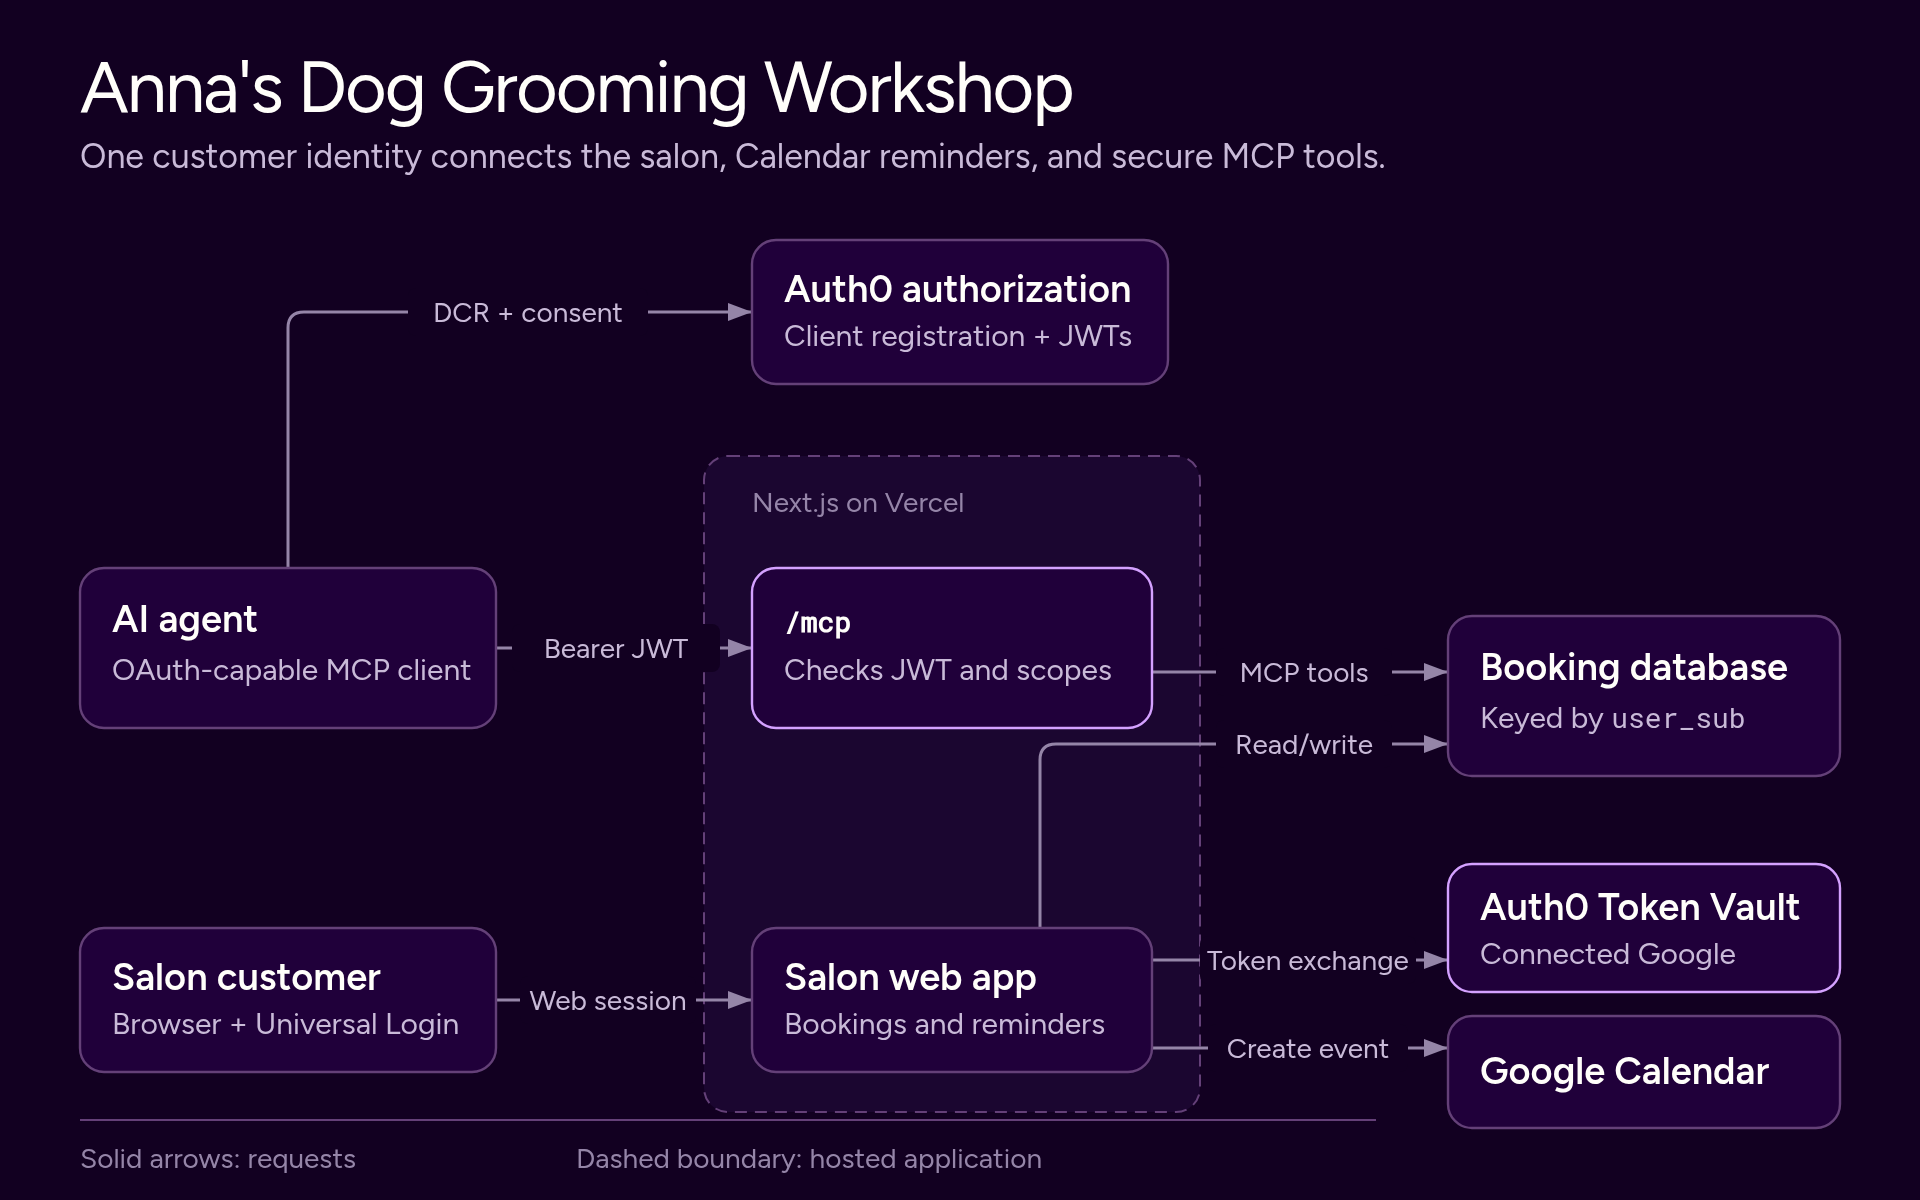
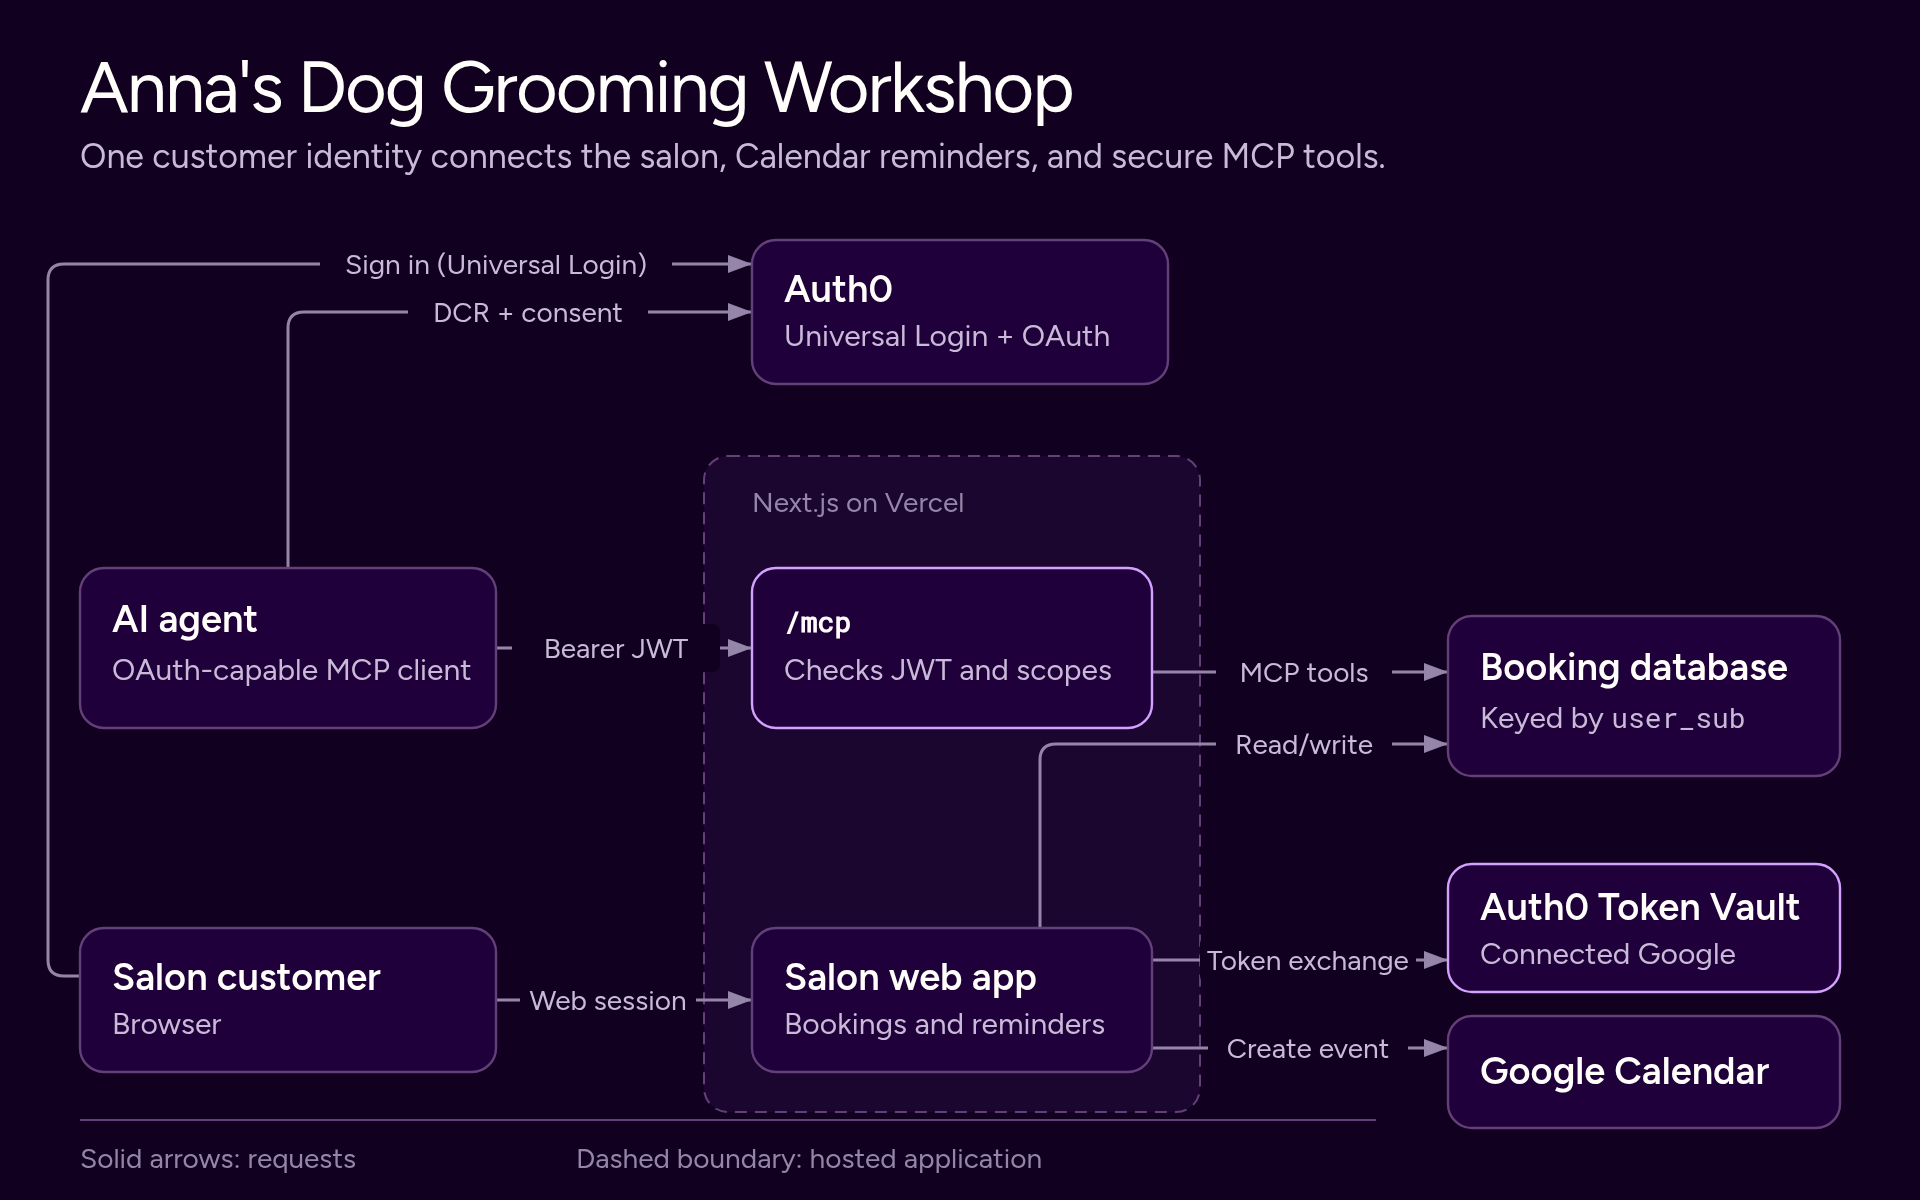
Show the salon customer's Auth0 sign-in path

diff --git a/docs/architecture.html b/docs/architecture.html
@@ -43,7 +43,7 @@
     <div class="diagram-container">
       <svg xmlns="http://www.w3.org/2000/svg" viewBox="0 0 960 600" role="img" aria-labelledby="architecture-title architecture-desc">
         <title id="architecture-title">Anna's Dog Grooming Workshop</title>
-        <desc id="architecture-desc">The salon uses Auth0 Token Vault for Calendar access, while OAuth MCP clients use scoped Auth0 tokens to manage the same customer-owned dog and booking records.</desc>
+        <desc id="architecture-desc">Salon customers sign in through Auth0 Universal Login, the app uses Token Vault for Calendar access, and OAuth MCP clients use scoped Auth0 tokens to manage the same customer-owned records.</desc>
         <defs>
           <marker id="arrow" markerWidth="8" markerHeight="6" refX="8" refY="3" orient="auto">
             <path d="M0,0 L8,3 L0,6 Z" fill="#9585a8"/>
@@ -54,6 +54,7 @@
         <rect class="zone" x="352" y="228" width="248" height="328" rx="12"/>
         <text class="caption" x="376" y="256">Next.js on Vercel</text>
 
+        <path class="edge" d="M40,488 H32 Q24,488 24,480 V140 Q24,132 32,132 H376"/>
         <path class="edge" d="M144,284 V164 Q144,156 152,156 H376"/>
         <path class="edge" d="M248,324 H376"/>
         <path class="edge" d="M248,500 H376"/>
@@ -64,8 +65,8 @@
 
         <g>
           <rect class="node" x="376" y="120" width="208" height="72" rx="12"/>
-          <text class="name" x="392" y="151">Auth0 authorization</text>
-          <text class="detail" x="392" y="173">Client registration + JWTs</text>
+          <text class="name" x="392" y="151">Auth0</text>
+          <text class="detail" x="392" y="173">Universal Login + OAuth</text>
         </g>
         <g>
           <rect class="node" x="40" y="284" width="208" height="80" rx="12"/>
@@ -75,7 +76,7 @@
         <g>
           <rect class="node" x="40" y="464" width="208" height="72" rx="12"/>
           <text class="name" x="56" y="495">Salon customer</text>
-          <text class="detail" x="56" y="517">Browser + Universal Login</text>
+          <text class="detail" x="56" y="517">Browser</text>
         </g>
         <g>
           <rect class="node focus" x="376" y="284" width="200" height="80" rx="12"/>
@@ -103,6 +104,8 @@
         </g>
 
         <g>
+          <rect class="edge-mask" x="160" y="120" width="176" height="24" rx="4"/>
+          <text class="edge-label" x="248" y="137">Sign in (Universal Login)</text>
           <rect class="edge-mask" x="204" y="144" width="120" height="24" rx="4"/>
           <text class="edge-label" x="264" y="161">DCR + consent</text>
           <rect class="edge-mask" x="256" y="312" width="104" height="24" rx="4"/>
